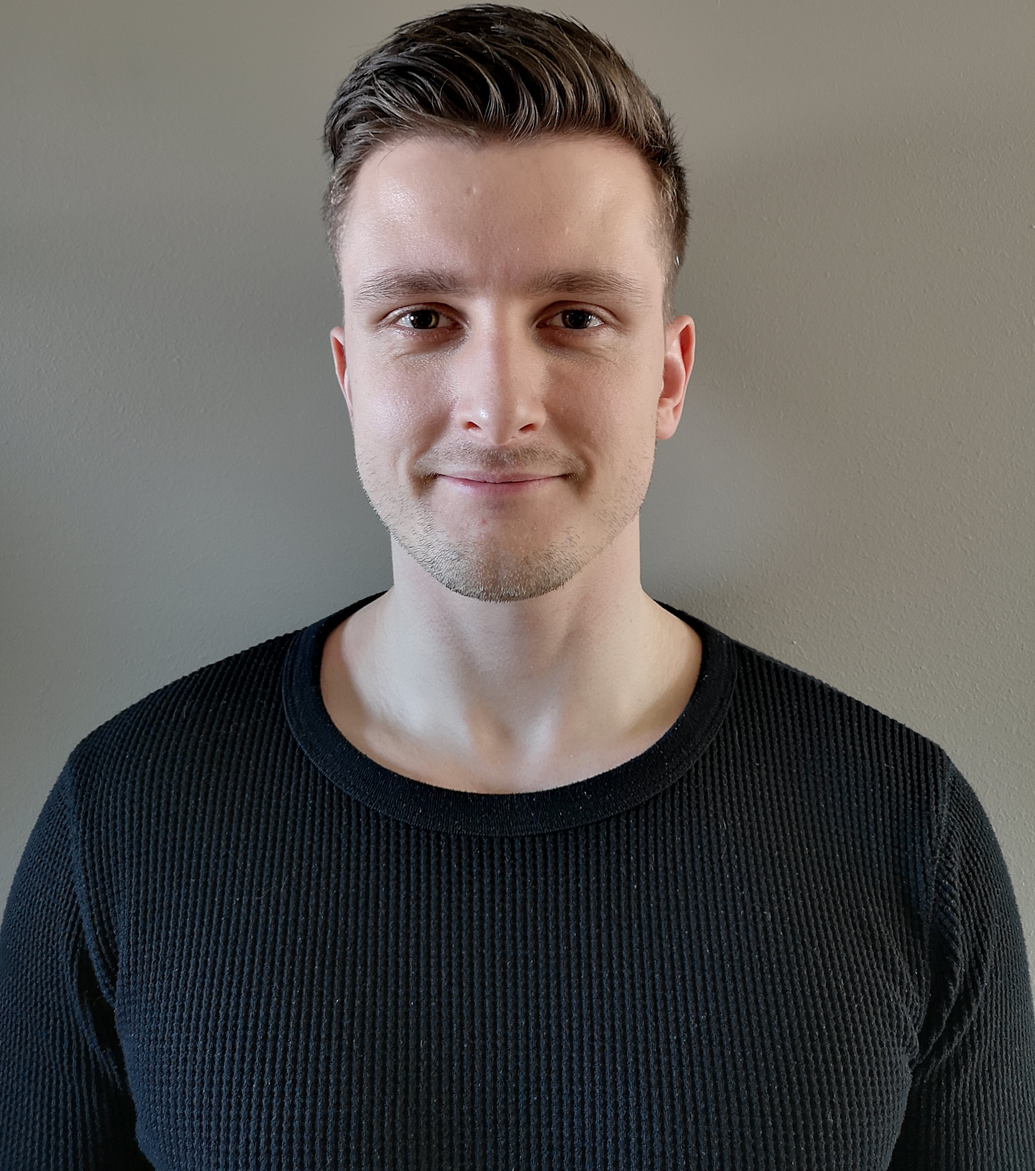
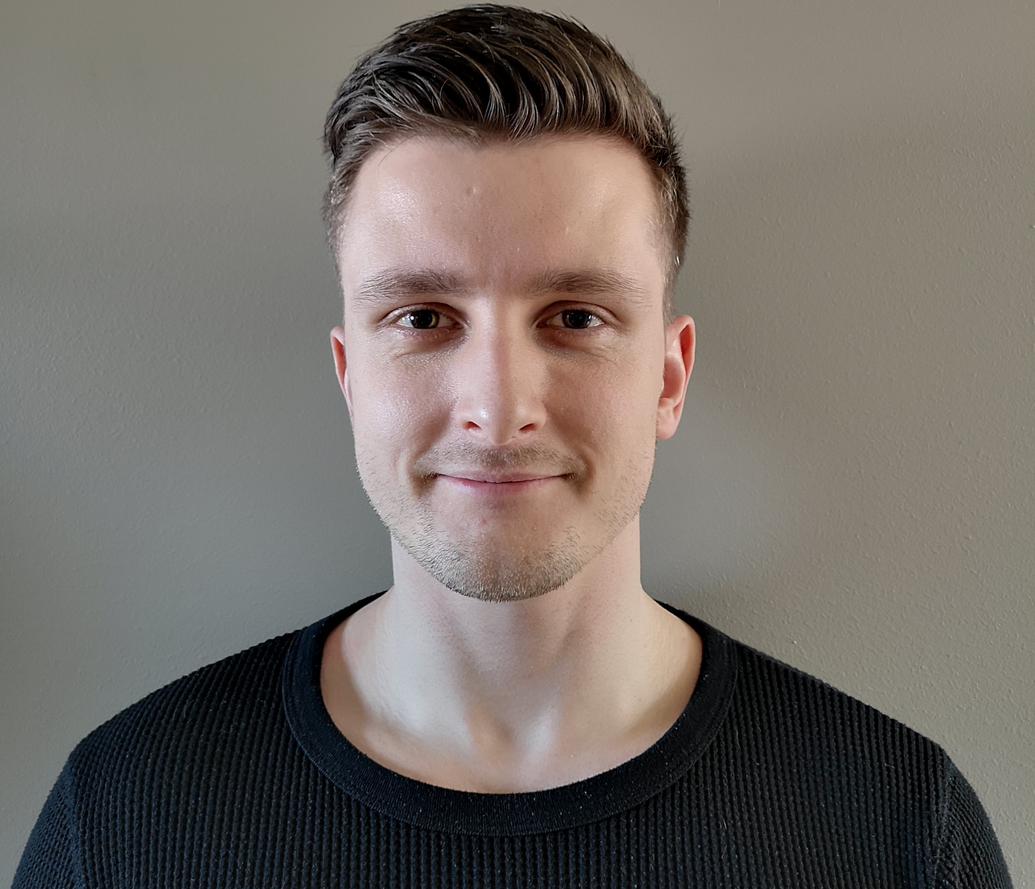
Diverse små endringer mtp mobilvisning
ordne bilde til Joakim på mobilvisning, fjerne logo til bedrifter på om oss, left align text på oppstartstider

diff --git a/_sass/_oppstart-tider.scss b/_sass/_oppstart-tider.scss
@@ -67,7 +67,8 @@
   @media only screen and (max-width: 768px) {
     .startup-period-container {
       .startup-header {
-        word-break: break-all;
+        word-break: normal;
+        text-align: left;
       }
       .start-up {
         display: flex;

diff --git a/_layouts/about-us.html b/_layouts/about-us.html
@@ -82,7 +82,7 @@ layout: default
     {% endfor %}
   </div>
 </div> -->
-<div class="logos">
+<!-- <div class="logos">
   {% include home/bedrifter.html %}
-</div>
+</div> -->
 </div>
